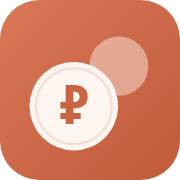
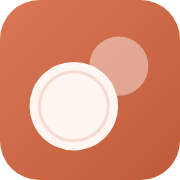
Иконка: убран символ валюты, только монеты
- icon.svg: убран ₽ с монеты — остаются две чистые монеты на коралловом фоне
  (у передней — лёгкое кольцо-ободок).
- Перегенерированы PNG 180/192/512.
- Логотип онбординга — концентрическая монета без символа валюты.
- Кэш service worker → v17.

Claude-Session: https://claude.ai/code/session_012sfmLX3CmeEjouaf919c5U

Changed region(s): [[0.1944, 0.3611, 0.6389, 0.8056], [0.3333, 0.4722, 0.5, 0.6944]]

diff --git a/index.html b/index.html
@@ -38,7 +38,7 @@
       <div class="ob-logo">
         <svg viewBox="0 0 24 24" fill="none" stroke="currentColor" stroke-width="1.7" stroke-linecap="round" stroke-linejoin="round" aria-hidden="true">
           <circle cx="12" cy="12" r="8.4"/>
-          <path d="M10 8.2V16.2M10 8.2h2.4a2.1 2.1 0 0 1 0 4.2H10M8.3 13.1H10"/>
+          <circle cx="12" cy="12" r="4.6" opacity="0.5"/>
         </svg>
       </div>
       <h1>Наши деньги</h1>

diff --git a/sw.js b/sw.js
@@ -1,6 +1,6 @@
 // Service worker: офлайн-оболочка приложения (offline-first)
 
-const VERSION = 'v16';
+const VERSION = 'v17';
 const CACHE = `family-money-${VERSION}`;
 const FONT_CACHE = 'family-money-fonts';
 const ASSETS = [
